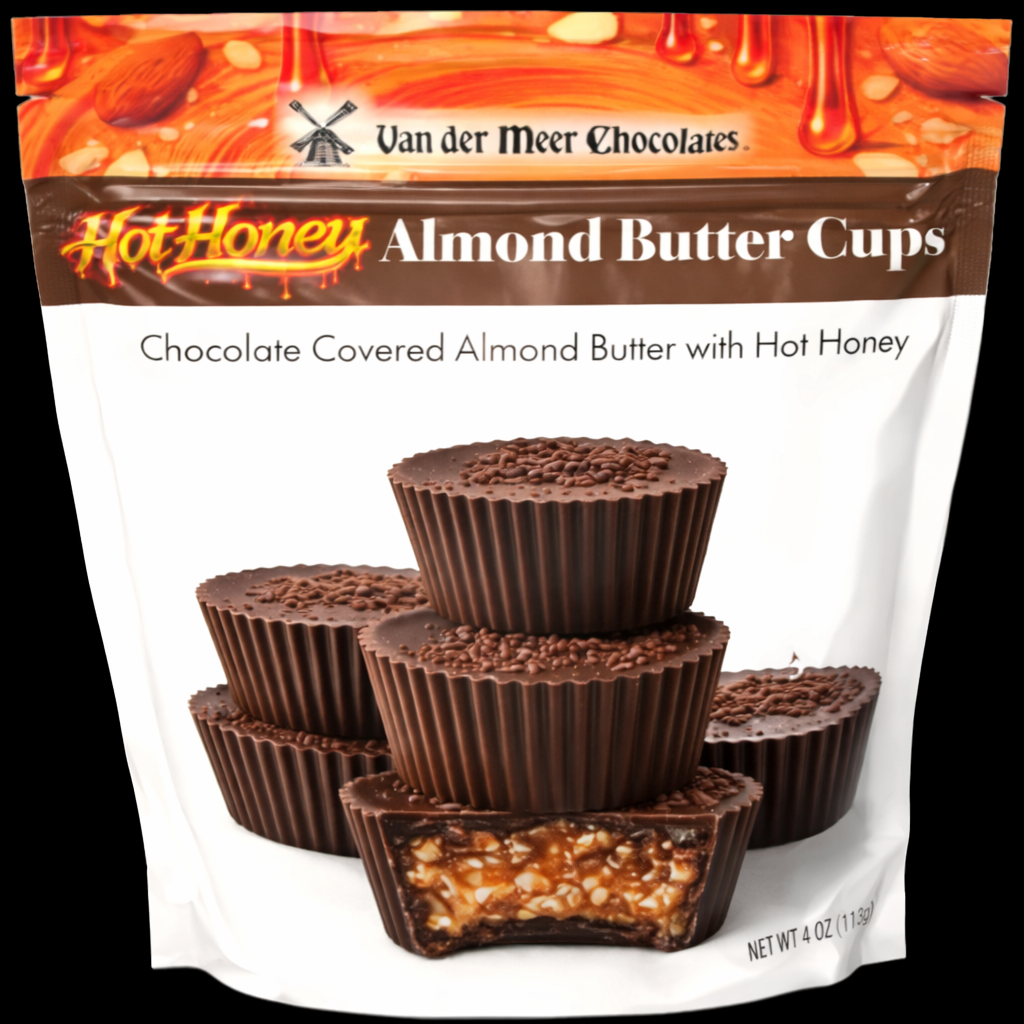
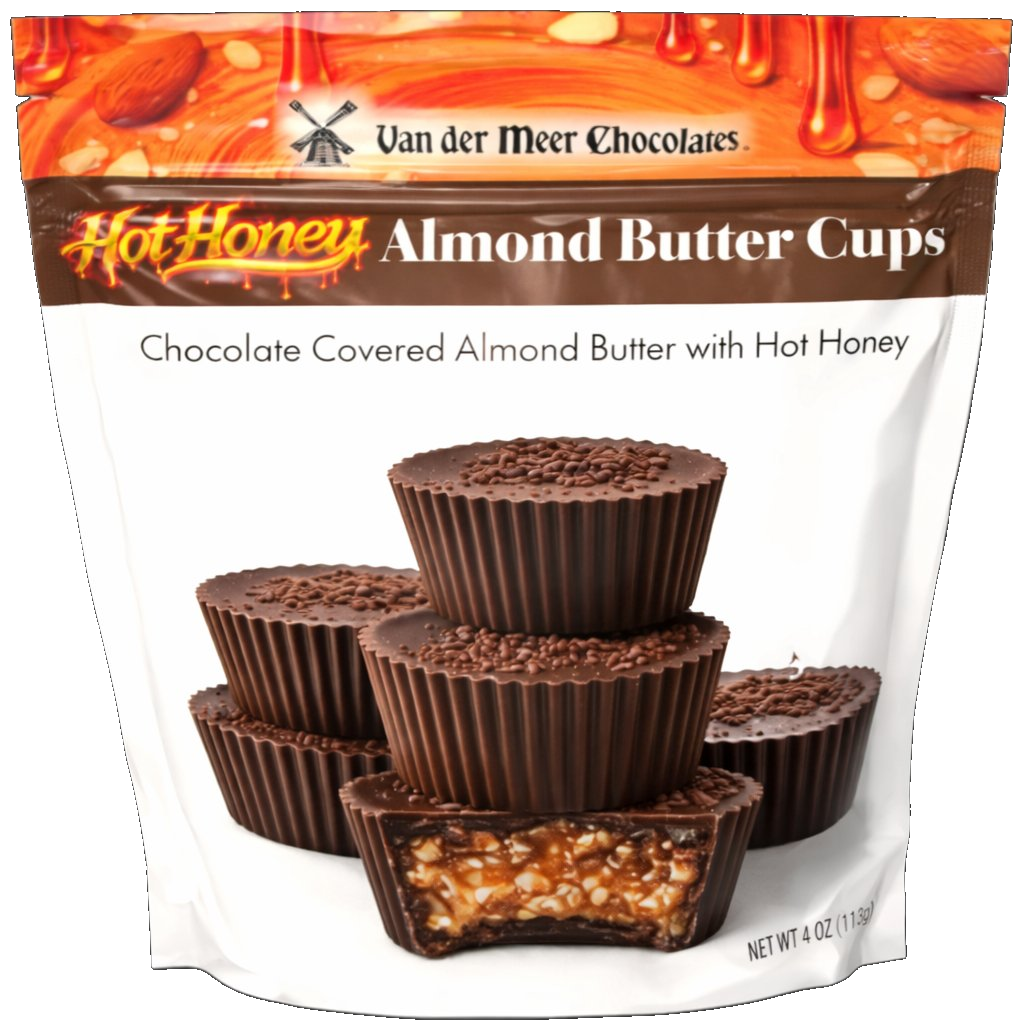
Add files via upload

Changed region(s): [[0.0, 0.0, 1.0, 1.0]]

diff --git a/index.html b/index.html
@@ -795,7 +795,7 @@
     </div>
     <div class="bag bag-right">
       <div class="peek-left"><img src="carmel_cups.png" alt="Salted Caramel Cups"></div>
-      <img src="hot_honey_cup.png" alt="Hot Honey Almond Butter Cups">
+      <img src="hot_honey_cup.png?v=2" alt="Hot Honey Almond Butter Cups">
       <div class="peek-right"><img src="carmel_cups.png" alt="Salted Caramel Cups"></div>
       <span class="bag-label">Almond Butter Cups</span>
     </div>
@@ -919,7 +919,7 @@
     <div class="pcard" id="cups">
       <div class="pcard-img pcard-img-cp">
         <span class="pcard-badge badge-cp">Cups</span>
-        <img src="hot_honey_cup.png" alt="Hot Honey Almond Butter Cups">
+        <img src="hot_honey_cup.png?v=2" alt="Hot Honey Almond Butter Cups">
       </div>
       <div class="pcard-body">
         <div class="pcard-format fmt-cp">Format 02</div>
@@ -992,7 +992,7 @@
     </article>
 
     <article class="story-card" id="story-hot-honey">
-      <div class="story-visual story-visual-cp"><img src="hot_honey_cup.png" alt="Hot Honey Almond Butter Cups"></div>
+      <div class="story-visual story-visual-cp"><img src="hot_honey_cup.png?v=2" alt="Hot Honey Almond Butter Cups"></div>
       <div>
         <div class="story-format fmt-cp">Chocolate Cups</div>
         <h3 class="story-title">Hot Honey Almond Butter Cups</h3>
@@ -1053,7 +1053,7 @@
       <div class="ex-tags"><span class="ex-tag">Premium Tier</span><span class="ex-tag">High Margin</span><span class="ex-tag">Gifting Adjacent</span></div>
     </div>
     <div class="ex-card ex-cp">
-      <img class="ex-img" src="hot_honey_cup.png" alt="Cups">
+      <img class="ex-img" src="hot_honey_cup.png?v=2" alt="Cups">
       <div class="ex-format fmt-cp">Format 02 — Cups</div>
       <div class="ex-title">Layered. Bold. High Repeat.</div>
       <p class="ex-desc">The velocity driver. Caramel, sea salt, and hot honey in a chocolate cup. Unexpected flavour builds loyalty and repeat purchases fast.</p>
